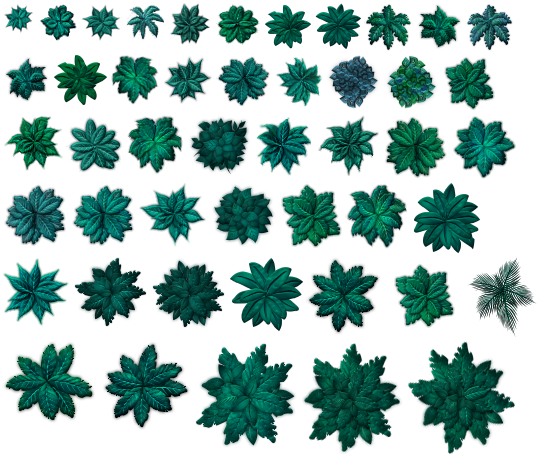
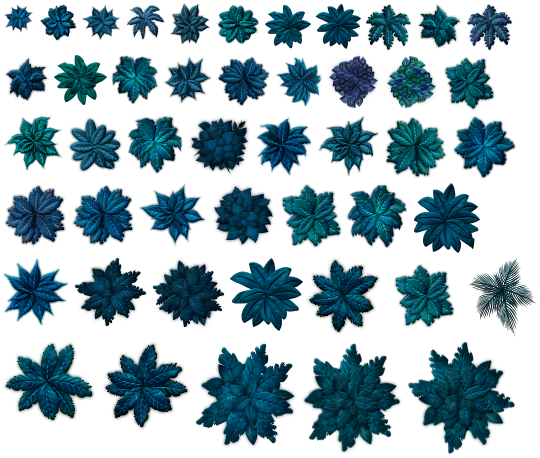
Adjusted propositions
Adjusted propositions for turquoise to blue
Adjusted propositions to have a different structure

diff --git a/alife/agents/cognitive_system/test_observation_to_proposition_system.py b/alife/agents/cognitive_system/test_observation_to_proposition_system.py
@@ -10,27 +10,28 @@ class ObservationToPropositionSystemTest(TestCase):
         observed_propositions = [NextToRock(), NextToTreeTrunk(), DayProposition()]
         color_proposition = ColorGreen()
 
-        possible_propositions = self.observation_to_proposition_system.observation_to_proposition(color_proposition, observed_propositions, Reward.toxic)
+        created_sentences = self.observation_to_proposition_system.observation_to_proposition(color_proposition, observed_propositions, Reward.toxic)
 
-        self.assertEqual(8, len(possible_propositions))
-        for possible_proposition in possible_propositions:
-            self.assertTrue(possible_proposition[0].__contains__(color_proposition))
-        for possible_proposition in possible_propositions:
-            self.assertEqual(Reward.toxic, possible_proposition[1].reward)
-            self.assertEqual(0.125, possible_proposition[1].evidence)
+        self.assertEqual(8, len(created_sentences))
+        for sentence in created_sentences:
+            self.assertTrue(sentence.propositions[0][0].__contains__(color_proposition))
+        for sentence in created_sentences:
+            self.assertEqual(Reward.toxic, sentence.propositions[0][1])
+            self.assertEqual(0.125, sentence.evidence)
     
     def test_occams_razor_multiple_proposition_system(self):
         self.observation_to_proposition_system = OccamsRazorMultiplePropositionSystem() 
         observed_propositions = [NextToRock(), NextToTreeTrunk(), DayProposition()]
         color_proposition = ColorGreen()
         expected_evidence = {1:0.2,2:0.15,3:0.1,4:0.05}
-        possible_propositions = self.observation_to_proposition_system.observation_to_proposition(color_proposition, observed_propositions, Reward.toxic)
 
-        self.assertEqual(8, len(possible_propositions))
-        for possible_proposition in possible_propositions:
-            self.assertTrue(possible_proposition[0].__contains__(color_proposition))
-            self.assertEqual(Reward.toxic, possible_proposition[1].reward)
-            self.assertAlmostEqual(expected_evidence.get(len(possible_proposition[0])), possible_proposition[1].evidence)
+        created_sentences = self.observation_to_proposition_system.observation_to_proposition(color_proposition, observed_propositions, Reward.toxic)
+
+        self.assertEqual(8, len(created_sentences))
+        for sentence in created_sentences:
+            self.assertTrue(sentence.propositions[0][0].__contains__(color_proposition))
+            self.assertEqual(Reward.toxic, sentence.propositions[0][1])
+            self.assertAlmostEqual(expected_evidence.get(len(sentence.propositions[0][0])), sentence.evidence)
         
 
     def test_single_proposition_system(self):     
@@ -41,29 +42,28 @@ class ObservationToPropositionSystemTest(TestCase):
         color_proposition = ColorGreen()
         observed_propositions = [next_to_rock_proposition, next_to_tree_trunk_proposition, day_proposition]
 
-        possible_propositions = self.observation_to_proposition_system.observation_to_proposition(color_proposition, observed_propositions, Reward.toxic)
+        created_sentences = self.observation_to_proposition_system.observation_to_proposition(color_proposition, observed_propositions, Reward.toxic)
 
-        self.assertEqual(1, len(possible_propositions))
-        possible_proposition = possible_propositions[0]
-        self.assertEqual(4, len(possible_proposition[0]))
-        self.assertTrue(possible_proposition[0].__contains__(color_proposition))
-        self.assertTrue(possible_proposition[0].__contains__(next_to_rock_proposition))
-        self.assertTrue(possible_proposition[0].__contains__(next_to_tree_trunk_proposition))
-        self.assertTrue(possible_proposition[0].__contains__(day_proposition))
-        self.assertEqual(Reward.toxic, possible_proposition[1].reward)
-        self.assertEqual(1, possible_proposition[1].evidence)
+        self.assertEqual(1, len(created_sentences))
+        sentence = created_sentences[0]
+        self.assertEqual(4, len(sentence.propositions[0][0]))
+        self.assertTrue(sentence.propositions[0][0].__contains__(color_proposition))
+        self.assertTrue(sentence.propositions[0][0].__contains__(next_to_rock_proposition))
+        self.assertTrue(sentence.propositions[0][0].__contains__(next_to_tree_trunk_proposition))
+        self.assertTrue(sentence.propositions[0][0].__contains__(day_proposition))
+        self.assertEqual(Reward.toxic, sentence.propositions[0][1])
+        self.assertEqual(1, sentence.evidence)
 
     def test_random_single_proposition_system(self): 
         self.observation_to_proposition_system = RandomSinglePropositionSystem()     
         observed_propositions = [NextToRock(), NextToTreeTrunk(), DayProposition()]
         color_proposition = ColorGreen()
 
-        possible_propositions = self.observation_to_proposition_system.observation_to_proposition(color_proposition, observed_propositions, Reward.toxic)
+        created_sentences = self.observation_to_proposition_system.observation_to_proposition(color_proposition, observed_propositions, Reward.toxic)
 
-        self.assertEqual(1, len(possible_propositions))
-        possible_proposition = possible_propositions[0]
-        self.assertTrue(len(possible_proposition[0]) >= 1 and len(possible_proposition[0]) <= 5)
-        self.assertTrue(possible_proposition[0].__contains__(color_proposition))
-        self.assertEqual(Reward.toxic, possible_proposition[1].reward)
-        self.assertEqual(1, possible_proposition[1].evidence)
-
+        self.assertEqual(1, len(created_sentences))
+        sentence = created_sentences[0]
+        self.assertTrue(len(sentence.propositions[0][0]) >= 1 and len(sentence.propositions[0][0]) <= 5)
+        self.assertTrue(sentence.propositions[0][0].__contains__(color_proposition))
+        self.assertEqual(Reward.toxic, sentence.propositions[0][1])
+        self.assertEqual(1, sentence.evidence)

diff --git a/alife/agents/cognitive_system/observation_to_proposition_system.py b/alife/agents/cognitive_system/observation_to_proposition_system.py
@@ -16,13 +16,13 @@ class MultiplePropositionSystem(OberservationToPropositionSystem):
         evidence = 1/amount_of_combinations.get(len(observated_objects))
 
         generated_propositions = []
-        generated_propositions.append(([color_proposition], Implication(reward, evidence)))
+        generated_propositions.append(Sentence([([color_proposition], reward)], evidence))
         combinations = []
         for i in range(1, len(observated_objects)+1):
             next_list = [list(x) for x in itertools.combinations(observated_objects, i)]
             for entry in next_list:
                 entry.append(color_proposition)
-                generated_propositions.append((entry, Implication(reward, evidence)))
+                generated_propositions.append(Sentence([(entry, reward)], evidence))
         
         return generated_propositions
 
@@ -36,17 +36,13 @@ class OccamsRazorMultiplePropositionSystem(OberservationToPropositionSystem):
         max_length_of_proposition = {0:1,1:2,2:3,3:4}
         total_length_of_combination = {0:1,1:3,2:8,3:20}
         evidence_per_combination_part = 1/total_length_of_combination.get(len(observated_objects))
-        print(evidence_per_combination_part)
         generated_propositions = []
-        generated_propositions.append(([color_proposition], Implication(reward, evidence_per_combination_part*(max_length_of_proposition.get(len(observated_objects))))))
+        generated_propositions.append(Sentence([([color_proposition], reward)], evidence_per_combination_part*(max_length_of_proposition.get(len(observated_objects)))))
         for i in range(1, len(observated_objects)+1):
             next_list = [list(x) for x in itertools.combinations(observated_objects, i)]
             for entry in next_list:
                 entry.append(color_proposition)
-                print(entry)
-                print(evidence_per_combination_part*len(entry))
-                generated_propositions.append((entry, Implication(reward, evidence_per_combination_part*(max_length_of_proposition.get(len(observated_objects))-len(entry)+1))))
-        
+                generated_propositions.append(Sentence([(entry, reward)], evidence_per_combination_part*(max_length_of_proposition.get(len(observated_objects))-len(entry)+1)))
         return generated_propositions
 
 class SinglePropositionSystem(OberservationToPropositionSystem):
@@ -58,7 +54,7 @@ class SinglePropositionSystem(OberservationToPropositionSystem):
         evidence = 1
         observated_objects.append(color_proposition)
 
-        return [(observated_objects, Implication(reward, evidence))]
+        return [Sentence([(observated_objects, reward)], evidence)]
 
 class RandomSinglePropositionSystem(OberservationToPropositionSystem):
     
@@ -68,12 +64,12 @@ class RandomSinglePropositionSystem(OberservationToPropositionSystem):
     def observation_to_proposition(self, color_proposition: ColorProposition, observated_objects: list, reward: Reward):
         evidence = 1
         generated_propositions = []
-        generated_propositions.append(([color_proposition], Implication(reward, evidence)))
+        generated_propositions.append(Sentence([([color_proposition], reward)], evidence))
         combinations = []
         for i in range(1, len(observated_objects)+1):
             next_list = [list(x) for x in itertools.combinations(observated_objects, i)]
             for entry in next_list:
                 entry.append(color_proposition)
-                generated_propositions.append((entry, Implication(reward, evidence)))
+                generated_propositions.append(Sentence([(entry, reward)], evidence))
         
         return [random.choice(generated_propositions)]

diff --git a/alife/agents/cognitive_system/propositions.py b/alife/agents/cognitive_system/propositions.py
@@ -1,5 +1,12 @@
 from enum import Enum
 
+# Sentence([([color_proposition], reward)], evidence)
+class Sentence():
+    def __init__(self, propositions: list, evidence: float):
+        # Tuple
+        self.propositions = propositions
+        self.evidence = evidence
+
 class Proposition():
     def __init__(self):
         pass
@@ -9,11 +16,17 @@ class NextToProposition(Proposition):
         pass
 
 class NextToRock(NextToProposition):
+    variable = "R"
     def __init__(self):
+        self.variable = "R"
+        self.name = "ROCK"
         pass
 
 class NextToTreeTrunk(NextToProposition):
+    variable = "T"
     def __init__(self):
+        self.variable = "T"
+        self.name = "TREE"
         pass
 
 
@@ -22,11 +35,17 @@ class TimeProposition(Proposition):
         pass
 
 class DayProposition(TimeProposition):
+    variable = "D"
     def __init__(self):
+        self.variable = "D"
+        self.name = "DAY"
         pass
 
 class NightProposition(TimeProposition):
+    variable = "!D"
     def __init__(self):
+        self.variable = "!D"
+        self.name = "!DAY"
         pass
 
 class ColorProposition(Proposition):
@@ -34,19 +53,31 @@ class ColorProposition(Proposition):
         pass
 
 class ColorGreen(ColorProposition):
+    variable = "G"
     def __init__(self):
+        self.variable = "G"
+        self.name = "GREEN"
         pass
 
 class ColorOrange(ColorProposition):
+    variable = "O"
     def __init__(self):
+        self.variable = "O"
+        self.name = "ORANGE"
         pass
 
 class ColorPurple(ColorProposition):
+    variable = "P"
     def __init__(self):
+        self.variable = "P"
+        self.name = "PURPLE"
         pass
 
-class ColorTurquoise(ColorProposition):
+class ColorBlue(ColorProposition):
+    variable = "B"
     def __init__(self):
+        self.variable = "B"
+        self.name = "BLUE"
         pass
 
 class SpatialProposition(Proposition):
@@ -73,11 +104,9 @@ class EastOfProposition(SpatialProposition):
         self.agent = referent
         self.agent = referent
 
-class Reward(Enum):
-    toxic= 1
-    nontoxic= 2
+def get_variable_names_for_propositions():
+    return ["R", "T", "D"]
 
-class Implication():
-    def __init__(self, reward: Reward, evidence: float):
-        self.reward = reward
-        self.evidence = evidence
+class Reward(Enum):
+    toxic= "X"
+    nontoxic= "!X"

diff --git a/alife/world.py b/alife/world.py
@@ -312,7 +312,7 @@ class World:
                             elif self.PLANT_TO_USE == ID_PLANT_ORANGE:
                                 self.PLANT_TO_USE = ID_PLANT_PURPLE
                             elif self.PLANT_TO_USE == ID_PLANT_PURPLE:
-                                self.PLANT_TO_USE = ID_PLANT_TURQUOISE
+                                self.PLANT_TO_USE = ID_PLANT_BLUE
                             else:
                                 self.PLANT_TO_USE = ID_PLANT
                             timer = 0
@@ -352,7 +352,7 @@ class World:
             # Make sure there is a constant flow of resources/energy into the system
             step = step + 1
             
-            for plant_type in (ID_PLANT, ID_PLANT_ORANGE, ID_PLANT_PURPLE, ID_PLANT_TURQUOISE):
+            for plant_type in (ID_PLANT, ID_PLANT_ORANGE, ID_PLANT_PURPLE, ID_PLANT_BLUE):
                 if step % get_conf(section='world')['growth_rate']['ID_' + str(plant_type)] == 0:
                     p = self.random_position()
                     if p is not None and len(self.plants) < 1000:
@@ -411,7 +411,7 @@ class World:
         for thing_type in (ID_ROCK, ID_TREE_TRUNK):
             for i in range(random.randint(0,9)):
                 Thing(self.random_position(), mass=100 + random.rand()*max_plant_size, ID=thing_type)
-        for thing_type in (ID_PLANT, ID_PLANT_ORANGE, ID_PLANT_PURPLE, ID_PLANT_TURQUOISE):
+        for thing_type in (ID_PLANT, ID_PLANT_ORANGE, ID_PLANT_PURPLE, ID_PLANT_BLUE):
             for i in range(random.randint(0,9)):
                 Thing(self.random_position(), mass=100 + random.rand()*max_plant_size, ID=thing_type)
         
@@ -430,7 +430,7 @@ class World:
 
     def create_proposition_table(self):
         self.proposition_table_list = {}
-        plants_toxicity = ['TOXIC', 'NONTOXIC']
+        plants_toxicity = ['X', '!X']
         for plant_id in PLANT_IDS:
             self.proposition_table_list[str(plant_id)] = {
                 'day_1': random.choice(plants_toxicity),

diff --git a/alife/objects.py b/alife/objects.py
@@ -16,7 +16,7 @@ ID_TREE_TRUNK = 2
 ID_PLANT = 3
 ID_PLANT_ORANGE = 31
 ID_PLANT_PURPLE = 32
-ID_PLANT_TURQUOISE = 33
+ID_PLANT_BLUE = 33
 PLANT_IDS = [3, 31, 32, 33]
 ID_ANIMAL = 4
 ID_OTHER = 5
@@ -128,14 +128,14 @@ class Thing(pygame.sprite.DirtySprite):
         '''
             Collision. A creature collides with me.
         '''
-        if ((self.ID == ID_PLANT or self.ID == ID_PLANT_ORANGE or self.ID == ID_PLANT_PURPLE or self.ID == ID_PLANT_TURQUOISE)
+        if ((self.ID == ID_PLANT or self.ID == ID_PLANT_ORANGE or self.ID == ID_PLANT_PURPLE or self.ID == ID_PLANT_BLUE)
          and creature.ID >= ID_ANIMAL) :
             # The creature can eat me (one bite at a time, relative to its own size)
             bite = random.rand() * creature.energy_limit * BITE_RATIO
             self.energy = self.energy - bite
             # Creature can eat me and will get energy
             plants_toxicity = get_plant_toxicity(self, world)
-            if plants_toxicity == "TOXIC": 
+            if plants_toxicity == "X": 
                 creature.energy = creature.energy - TOXIC_DAMAGE
             else: 
                 creature.energy = creature.energy + bite

diff --git a/alife/agents/evolution.py b/alife/agents/evolution.py
@@ -154,7 +154,7 @@ class CognitiveEnvolver(Agent):
         self.generation = 1
 
         #Create cognitive system
-        self.cognitive_system = Cognitive_System(kwargs.get("ObservationSystem"))
+        self.cognitive_system = Cognitive_System(kwargs.get("ObservationSystem"), kwargs.get("BeliefRevisionSystem"))
         
         print(self.cognitive_system.long_term_memory)
         print(self.cognitive_system.observation_to_proposition_system)
@@ -204,7 +204,7 @@ class CognitiveEnvolver(Agent):
             3: ColorGreen(),
             31: ColorOrange(),
             32: ColorPurple(),
-            33: ColorTurquoise()
+            33: ColorBlue()
         }
         for near_object_id in nearby_objects:
             if near_object_id == 1  or near_object_id == 2:

diff --git a/alife/graphics.py b/alife/graphics.py
@@ -17,7 +17,7 @@ id2rgb = {
     3: array([0.,1.,0.]), # PLANT    = 3  = GREEN
     31: array([1, 0.356, 0.121]), # PLANT    = 31  = ORANGE
     32: array([0.650, 0.062, 0.996]), # PLANT    = 32  = PURPLE
-    33: array([0, 0.901, 0.694]), # PLANT    = 33  = TURQUOISE
+    33: array([0, 0.901, 0.694]), # PLANT    = 33  = BLUE
     4: array([0.,0.,1.]), # ANIMAL   = 4  = BLUE
     5: array([1.,0.,0.]), # ENEMY    = 5  = RED
 
